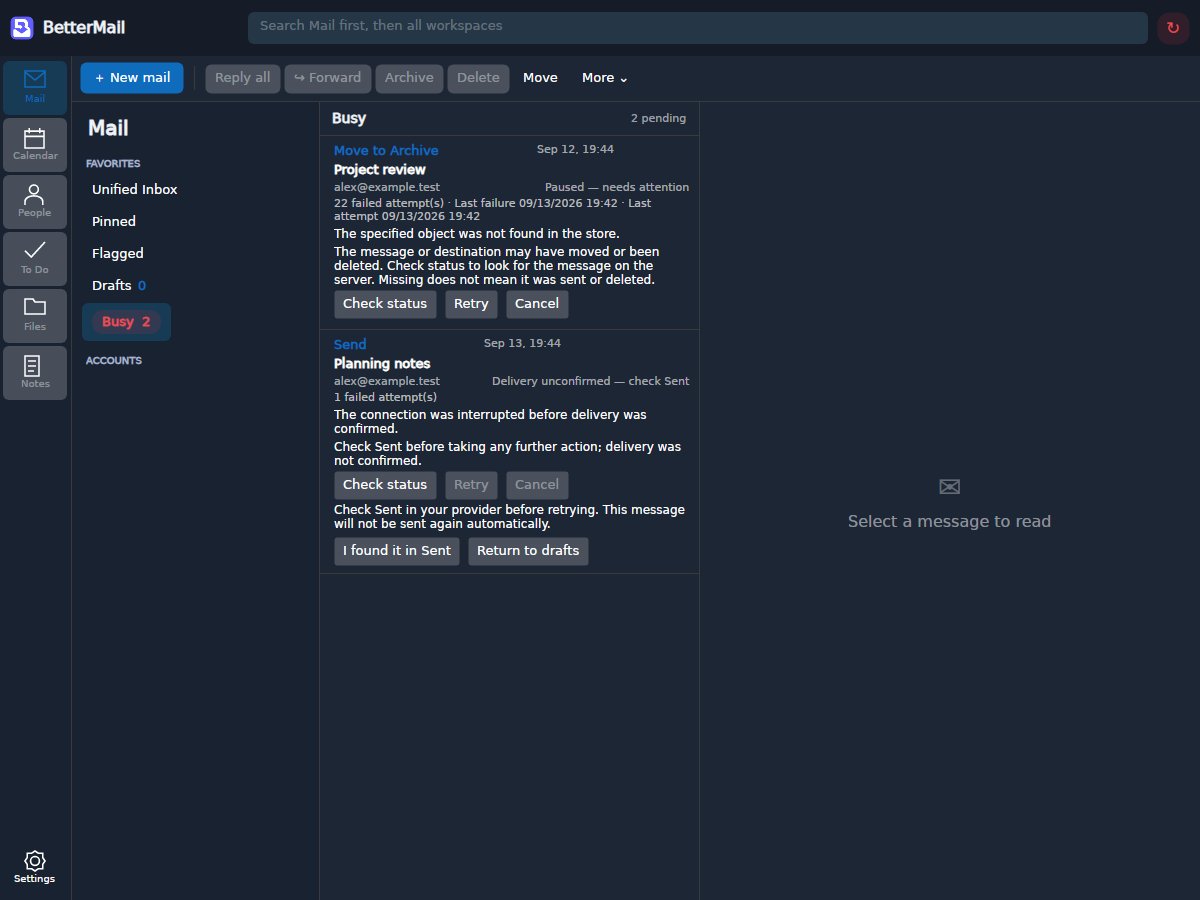
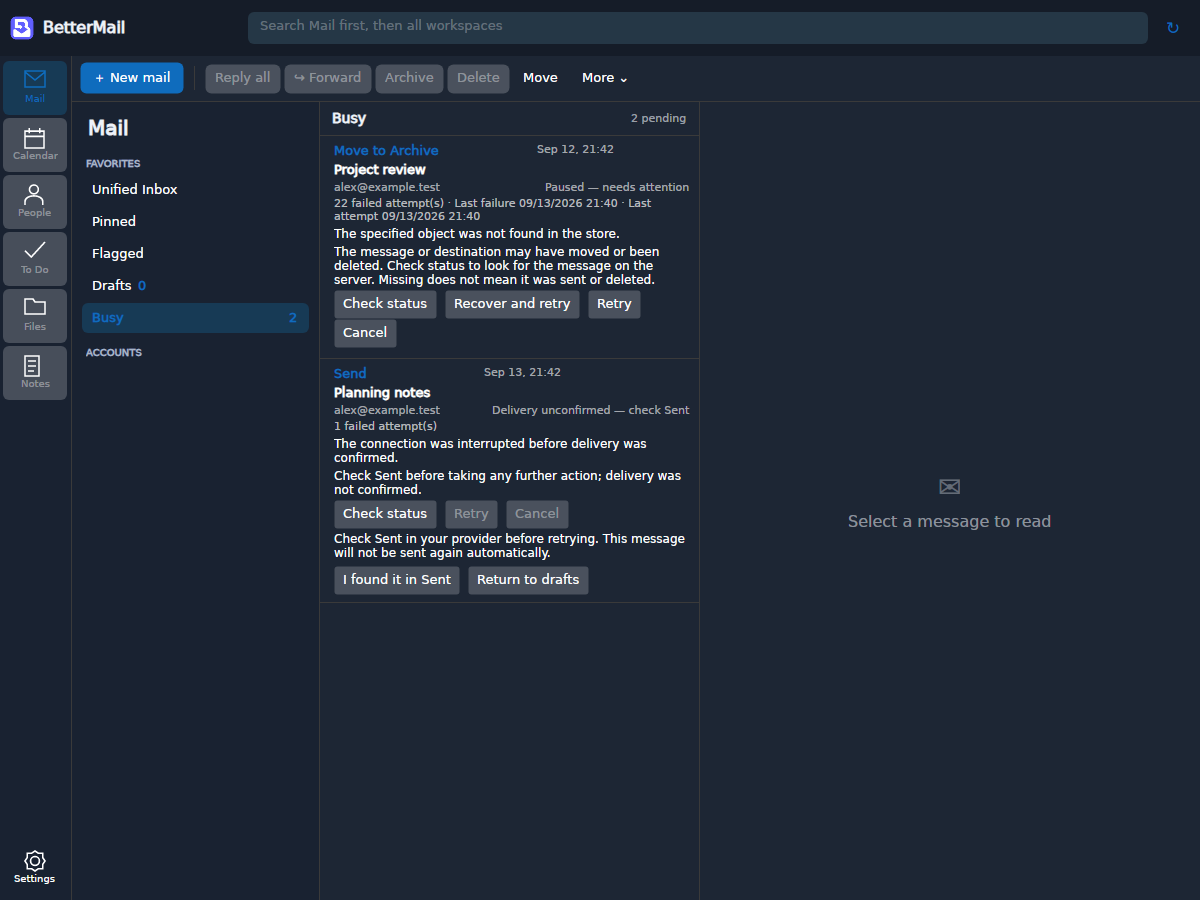
Correct sync colour transitions and simplify Busy navigation (#25)
* Drive sync colours from completed outcomes and simplify Busy navigation

* Restore Busy warning state when persisted actions load

* Separate Busy outcomes from unrelated sync warnings

---------

Changed region(s): [[0.0617, 0.3111, 0.5858, 0.6844], [0.9558, 0.0, 1.0, 0.0622], [0.37, 0.2178, 0.4008, 0.2489]]

diff --git a/tests/BetterMail.Tests/WorkspaceInteractionTests.cs b/tests/BetterMail.Tests/WorkspaceInteractionTests.cs
@@ -10,6 +10,61 @@ public sealed class WorkspaceInteractionTests
 {
     private static MailAccount Account(string id) => new("microsoft365", id, "tenant", id + "@example.test", id, ProviderCapabilities.Contacts | ProviderCapabilities.Calendar);
 
+    [Theory]
+    [InlineData(false, false, 1)]
+    [InlineData(true, false, 2)]
+    [InlineData(false, true, 2)]
+    public void RestoredBusyFailuresRetainAttentionUntilCompletedRecovery(bool paused, bool unconfirmed, int expected)
+    {
+        var vm = new MainWindowViewModel(null, Path.GetTempPath(), _ => { }, _ => { }, null);
+        var action = new MailAction("restored", "account", "mailbox", "message", unconfirmed ? MailActionKind.Send : MailActionKind.Move,
+            "Example", DateTimeOffset.UtcNow, Error: "Offline", FailureCount: paused ? 3 : 1, SendAttempted: unconfirmed);
+        vm.BusyActions.Add(action);
+        vm.InitializeBusyOutcome([action]);
+        Assert.Equal(expected, vm.BusySeverity);
+        vm.BeginSyncOutcome();
+        Assert.Equal(expected, vm.SyncSeverity);
+        vm.RecordSyncOutcome(false);
+        Assert.Equal(2, vm.BusySeverity); // The existing failure survived another run.
+        vm.BusyActions.Clear();
+        Assert.Equal(2, vm.SyncSeverity);
+        vm.RecordSyncOutcome(false);
+        Assert.Equal(0, vm.BusySeverity);
+        vm.InitializeBusyOutcome([action]); // Subsequent refreshes must not restore stale history.
+        Assert.Equal(0, vm.SyncSeverity);
+    }
+
+    [Theory]
+    [InlineData(false)]
+    [InlineData(true)]
+    public void UnrelatedSyncWarningsDoNotColourNewBusyActions(bool workspace)
+    {
+        var vm = new MainWindowViewModel(null, Path.GetTempPath(), _ => { }, _ => { }, null);
+        vm.RecordSyncOutcome(true, workspace);
+        Assert.Equal(1, vm.SyncSeverity);
+        Assert.Equal(0, vm.BusySeverity);
+        var action = new MailAction("new", "account", "mailbox", "message", MailActionKind.Move, "Example", DateTimeOffset.UtcNow);
+        vm.BusyActions.Add(action);
+        Assert.Equal(0, vm.BusySeverity);
+        vm.BeginSyncOutcome();
+        Assert.True(vm.SyncIsInformation);
+        vm.RecordSyncOutcome(true, workspace); // An unrelated failure while clean work is queued.
+        Assert.Equal(1, vm.SyncSeverity);
+        Assert.Equal(0, vm.BusySeverity);
+        vm.BusyActions[0] = action with { Error = "Move failed", FailureCount = 1 };
+        vm.RecordSyncOutcome(false);
+        Assert.Equal(1, vm.BusySeverity);
+        vm.BeginSyncOutcome();
+        vm.RecordSyncOutcome(false);
+        Assert.Equal(2, vm.BusySeverity);
+        vm.RecordSyncOutcome(false, workspace: true);
+        Assert.Equal(2, vm.BusySeverity); // Workspace recovery cannot clear stuck Busy work.
+        vm.BusyActions.Clear();
+        vm.RecordSyncOutcome(true);
+        Assert.Equal(0, vm.BusySeverity);
+        Assert.Equal(1, vm.SyncSeverity);
+    }
+
     [Fact]
     public async Task DefaultContactAccountAppliesToNewAndDiscoveredContactsWithoutChangingSavedOwnership()
     {
@@ -66,7 +121,7 @@ public sealed class WorkspaceInteractionTests
     }
 
     [Fact]
-    public async Task FailedSyncStepsEscalateTheBadgeUntilASuccessfulRetry()
+    public async Task FailedBackgroundSyncStepsWarnUntilSuccessfulRetry()
     {
         var vm = new MainWindowViewModel(null, Path.GetTempPath(), _ => { }, _ => { }, null);
         var step = new SyncStep("Draft reconciliation");
@@ -78,7 +133,7 @@ public sealed class WorkspaceInteractionTests
             await Assert.ThrowsAsync<InvalidOperationException>(() => (Task)run.Invoke(vm, [step, fail])!);
             Assert.False(step.Running);
             vm.RecordMailSyncOutcome(false);
-            Assert.Equal(attempt, vm.SyncSeverity);
+            Assert.Equal(1, vm.SyncSeverity);
         }
         Func<Task> succeed = () => Task.CompletedTask;
         await (Task)run.Invoke(vm, [step, succeed])!;
@@ -101,14 +156,36 @@ public sealed class WorkspaceInteractionTests
         vm.Drafts.Clear();
         Assert.True(notified);
         Assert.False(vm.HasSyncIssues);
+        vm.BeginSyncOutcome();
+        Assert.Equal(0, vm.SyncSeverity);
         vm.RecordSyncOutcome(true); Assert.Equal(1, vm.SyncSeverity);
-        vm.RecordSyncOutcome(true); Assert.Equal(2, vm.SyncSeverity);
+        vm.BeginSyncOutcome(); Assert.Equal(0, vm.SyncSeverity); // No stuck Busy work.
         vm.RecordSyncOutcome(false); Assert.Equal(0, vm.SyncSeverity);
-        var action = new MailAction("action", "one", "mailbox", "item", MailActionKind.Move, "Subject", DateTimeOffset.Now, FailureCount: 1);
-        vm.BusyActions.Add(action); Assert.Equal(1, vm.BusySeverity);
-        vm.BusyActions[0] = action with { FailureCount = 2 }; Assert.Equal(2, vm.SyncSeverity);
+        var action = new MailAction("action", "one", "mailbox", "item", MailActionKind.Move, "Subject", DateTimeOffset.Now);
+        vm.BusyActions.Add(action);
+        Assert.True(vm.SyncIsInformation);
+        Assert.Equal(0, vm.BusySeverity); // No badge and no warning from pending work alone.
+        vm.BeginSyncOutcome();
+        vm.BusyActions[0] = action with { Error = "Offline", FailureCount = 10 };
+        Assert.Equal(0, vm.BusySeverity); // Navigation changes only at the completed outcome.
+        vm.RecordSyncOutcome(false);
+        Assert.Equal(1, vm.SyncSeverity);
+        Assert.Equal(1, vm.BusySeverity); // Lifetime failure counts do not immediately turn it red.
+        vm.BeginSyncOutcome(); Assert.Equal(1, vm.SyncSeverity);
         vm.RecordSyncOutcome(false); Assert.Equal(2, vm.SyncSeverity);
-        vm.BusyActions.Clear(); Assert.Equal(0, vm.SyncSeverity);
+        vm.BeginSyncOutcome(); Assert.Equal(2, vm.SyncSeverity);
+        vm.BusyActions[0] = action; // Even a newly queued retry cannot clear latched red.
+        vm.RecordSyncOutcome(false); Assert.Equal(2, vm.BusySeverity);
+        vm.BusyActions.Clear(); Assert.Equal(2, vm.SyncSeverity);
+        vm.BeginSyncOutcome(); Assert.Equal(2, vm.SyncSeverity);
+        vm.RecordSyncOutcome(false);
+        Assert.Equal(0, vm.SyncSeverity);
+        Assert.Equal(0, vm.BusySeverity);
+        vm.RecordSyncOutcome(true, workspace: true);
+        vm.RecordSyncOutcome(true, workspace: true);
+        Assert.Equal(1, vm.SyncSeverity); // Workspace errors never accumulate into red.
+        vm.BeginSyncOutcome(); Assert.Equal(0, vm.SyncSeverity);
+
     }
 
     [Fact]

diff --git a/src/BetterMail.App/MainWindowViewModel.MessageActions.cs b/src/BetterMail.App/MainWindowViewModel.MessageActions.cs
@@ -38,32 +38,70 @@ public sealed partial class MainWindowViewModel
         BusyActions.Any(action => action.Kind is MailActionKind.Move or MailActionKind.UpdateState && ActionMatches(action, message));
     private static bool ActionMatches(MailAction action, MailMessage message) => action.MailboxId == message.MailboxId &&
         (action.ProviderId == message.ProviderId || action.ItemId == message.ProviderId || (action.PreviousProviderIds ?? []).Contains(message.ProviderId));
-    private int _mailSyncFailureStreak;
-    private int _workspaceFailureStreak;
-    public int SyncSeverity => Math.Max(BusySeverity, Math.Min(2, Math.Max(_mailSyncFailureStreak, _workspaceFailureStreak)));
-    private static string BadgeBackground(int severity) => severity switch { 2 => "#24D13438", 1 => "#24D98200", _ => "#208A9AA9" };
-    private static string BadgeForeground(int severity) => severity switch { 2 => "#E45155", 1 => "#D98200", _ => "#8297AD" };
-    public string SyncBadgeBackground => BadgeBackground(SyncSeverity);
-    public string SyncBadgeForeground => BadgeForeground(SyncSeverity);
+    private bool _busyOutcomeInitialized;
+    internal void InitializeBusyOutcome(IReadOnlyList<MailAction> actions)
+    {
+        if (_busyOutcomeInitialized) return;
+        _busyOutcomeInitialized = true;
+        var failed = actions.Where(action => action.Error is not null || action.IsRetryPaused || action.NeedsSendReview).ToArray();
+        if (failed.Length == 0) return;
+        _failedBusyAtPreviousEnd = failed.Select(action => action.Id).ToHashSet();
+        _completedBusySeverity = failed.Any(action => action.IsRetryPaused || action.NeedsSendReview) ? 2 : 1;
+        _syncSeverity = _completedBusySeverity;
+        MailActionStateChanged();
+    }
+
+    private int _syncSeverity;
+    private int _completedBusySeverity;
+    private bool _workspaceWarning;
+    private HashSet<string> _failedBusyAtPreviousEnd = [];
+    public int SyncSeverity => Math.Max(_syncSeverity, _workspaceWarning ? 1 : 0);
+    public int BusySeverity => _completedBusySeverity;
+    public bool SyncIsWarning => SyncSeverity == 1;
+    public bool SyncNeedsAttention => SyncSeverity == 2;
+    public bool SyncIsInformation => SyncSeverity == 0 && HasOutbox;
+    public bool BusyIsWarning => BusySeverity == 1;
+    public bool BusyNeedsAttention => BusySeverity == 2;
+
+    internal void BeginSyncOutcome()
+    {
+        _workspaceWarning = false;
+        // Red is latched until a completed sync empties Busy. Orange survives the retry run.
+        _syncSeverity = _completedBusySeverity == 2 ? 2 : HasOutbox ? _completedBusySeverity : 0;
+        MailActionStateChanged();
+    }
+
     internal void RecordSyncOutcome(bool failed, bool workspace = false)
     {
-        if (workspace) _workspaceFailureStreak = failed ? Math.Min(2, _workspaceFailureStreak + 1) : 0;
-        else _mailSyncFailureStreak = failed ? Math.Min(2, _mailSyncFailureStreak + 1) : 0;
+        if (workspace)
+        {
+            // Background workspace failures warn, but do not turn normal syncing red.
+            _workspaceWarning = failed;
+        }
+        else
+        {
+            var failedBusy = BusyActions.Where(action => action.Error is not null || action.IsRetryPaused || action.NeedsSendReview)
+                .Select(action => action.Id).ToHashSet();
+            var stillStuck = failedBusy.Overlaps(_failedBusyAtPreviousEnd);
+            _completedBusySeverity = HasOutbox && (_completedBusySeverity == 2 || stillStuck) ? 2
+                : failedBusy.Count > 0 ? 1 : 0;
+            _failedBusyAtPreviousEnd = failedBusy;
+            _syncSeverity = Math.Max(_completedBusySeverity, failed || _workspaceWarning ? 1 : 0);
+        }
         MailActionStateChanged();
     }
     public bool HasSyncIssues => SyncIssueCount > 0;
-    public int BusySeverity => BusyActions.Any(action => action.FailureCount >= 2 || action.NeedsSendReview) ? 2
-        : BusyActions.Any(action => action.FailureCount > 0 || action.Error is not null) ? 1 : 0;
-    public string BusyBadgeBackground => BusySeverity switch { 2 => "#24D13438", 1 => "#24D98200", _ => "#208A9AA9" };
-    public string BusyBadgeForeground => BusySeverity switch { 2 => "#E45155", 1 => "#D98200", _ => "#8297AD" };
     private void MailActionStateChanged()
     {
+        if (IsSyncing && _syncSeverity == 0 && BusyActions.Any(action => action.Error is not null || action.NeedsSendReview || action.IsRetryPaused))
+            _syncSeverity = 1;
         RaisePropertyChanged(nameof(SyncSeverity));
-        RaisePropertyChanged(nameof(SyncBadgeBackground));
-        RaisePropertyChanged(nameof(SyncBadgeForeground));
+        RaisePropertyChanged(nameof(SyncIsWarning));
+        RaisePropertyChanged(nameof(SyncNeedsAttention));
+        RaisePropertyChanged(nameof(SyncIsInformation));
         RaisePropertyChanged(nameof(BusySeverity));
-        RaisePropertyChanged(nameof(BusyBadgeBackground));
-        RaisePropertyChanged(nameof(BusyBadgeForeground));
+        RaisePropertyChanged(nameof(BusyIsWarning));
+        RaisePropertyChanged(nameof(BusyNeedsAttention));
         _mailActionVersion++;
         RaisePropertyChanged(nameof(MailActionVersion));
     }

diff --git a/tools/BetterMail.UiPreview/Program.Busy.cs b/tools/BetterMail.UiPreview/Program.Busy.cs
@@ -29,6 +29,10 @@ internal static partial class Program
             window.Position = new PixelPoint(0, 0);
             foreach (var theme in new[] { ThemeVariant.Light, ThemeVariant.Dark })
             {
+                var rows = vm.BusyActions.ToArray();
+                vm.BusyActions.Clear();
+                typeof(MainWindowViewModel).GetMethod("RecordSyncOutcome", System.Reflection.BindingFlags.NonPublic | System.Reflection.BindingFlags.Instance)!.Invoke(vm, [false, false]);
+                foreach (var row in rows) vm.BusyActions.Add(row);
                 Application.Current!.RequestedThemeVariant = theme;
                 await Task.Delay(700);
                 if (!window.GetVisualDescendants().OfType<SelectableTextBlock>().Any(text => text.Text == "The specified object was not found in the store."))
@@ -37,6 +41,18 @@ internal static partial class Program
                     "tools/BetterMail.UiPreview/capture.py", Path.Combine(output, "busy-" + theme.ToString().ToLowerInvariant() + ".png"), "1200", "900" } })!;
                 await capture.WaitForExitAsync();
                 if (capture.ExitCode != 0) throw new InvalidOperationException("Busy capture failed.");
+                foreach (var (state, colour) in new[] { ("orange", "#D98200"), ("red", "#E45155") })
+                {
+                    typeof(MainWindowViewModel).GetMethod("RecordSyncOutcome", System.Reflection.BindingFlags.NonPublic | System.Reflection.BindingFlags.Instance)!.Invoke(vm, [false, false]);
+                    await Task.Delay(200);
+                    foreach (var name in new[] { "SyncStatusButton", "BusyNavigationButton" })
+                        if (window.FindControl<Button>(name)!.Foreground is not Avalonia.Media.ISolidColorBrush brush || brush.Color != Avalonia.Media.Color.Parse(colour))
+                            throw new InvalidOperationException(name + " did not show " + state);
+                    using var coloured = Process.Start(new ProcessStartInfo("python3") { ArgumentList = {
+                        "tools/BetterMail.UiPreview/capture.py", Path.Combine(output, "busy-" + theme.ToString().ToLowerInvariant() + "-" + state + ".png"), "1200", "900" } })!;
+                    await coloured.WaitForExitAsync();
+                    if (coloured.ExitCode != 0) throw new InvalidOperationException("Colour capture failed.");
+                }
             }
         }
         finally { window.Close(); Directory.Delete(directory, true); }

diff --git a/src/BetterMail.App/MainWindowViewModel.Actions.cs b/src/BetterMail.App/MainWindowViewModel.Actions.cs
@@ -125,6 +125,7 @@ public sealed partial class MainWindowViewModel
     {
         if (_store is null) return;
         var actions = await _store.GetMailActionsAsync();
+        InitializeBusyOutcome(actions);
         foreach (var id in _busyChecks.Keys.Except(actions.Select(action => action.Id)).ToArray()) _busyChecks.Remove(id);
         CollectionUpdates.Reconcile(BusyActions, actions.Select(action => action with { StatusCheckDetails = _busyChecks.GetValueOrDefault(action.Id) }).ToArray(), static action => action.Id);
         RaiseDraftState();

diff --git a/src/BetterMail.App/MainWindowViewModel.Sync.cs b/src/BetterMail.App/MainWindowViewModel.Sync.cs
@@ -68,6 +68,7 @@ public sealed partial class MainWindowViewModel
         }
 
         StopContactPhotoSync();
+        BeginSyncOutcome();
         IsSyncing = true;
         Status = "Syncing mail...";
         Error = null;
